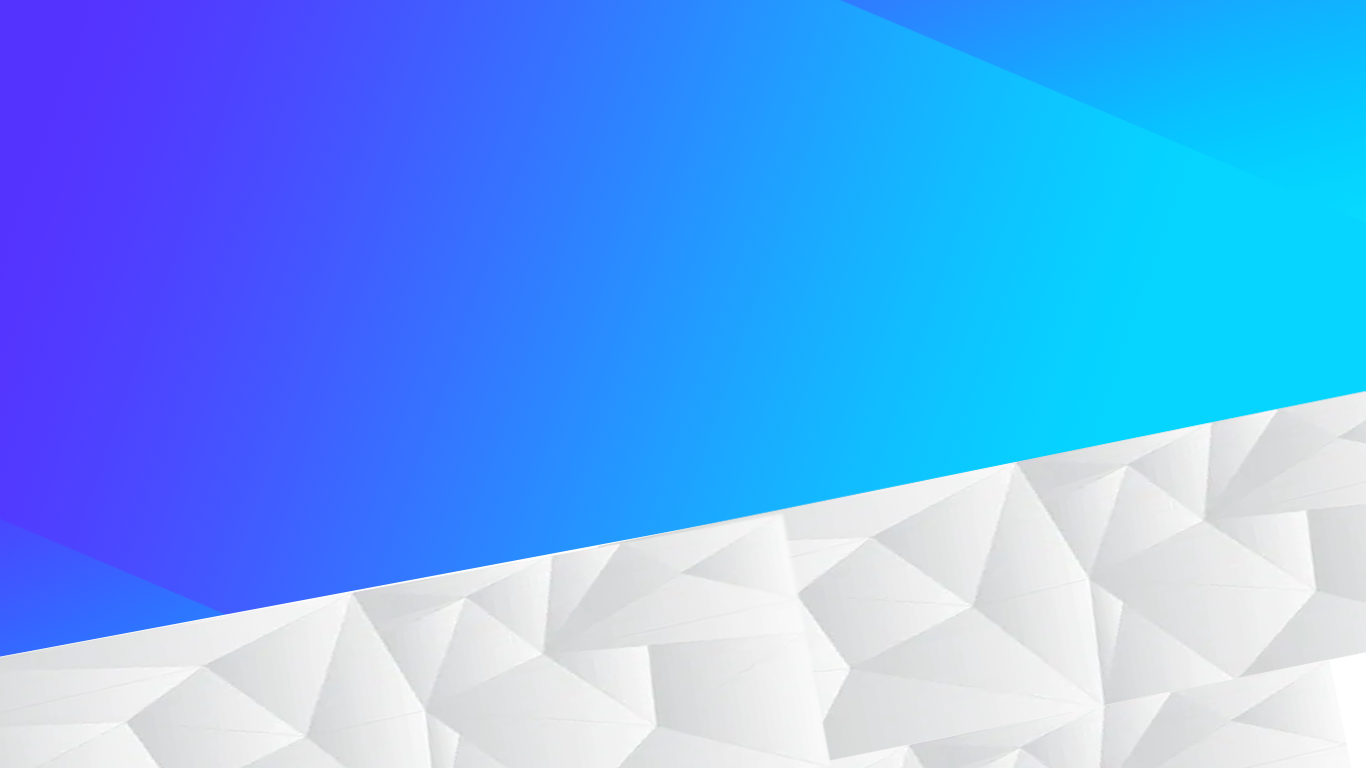
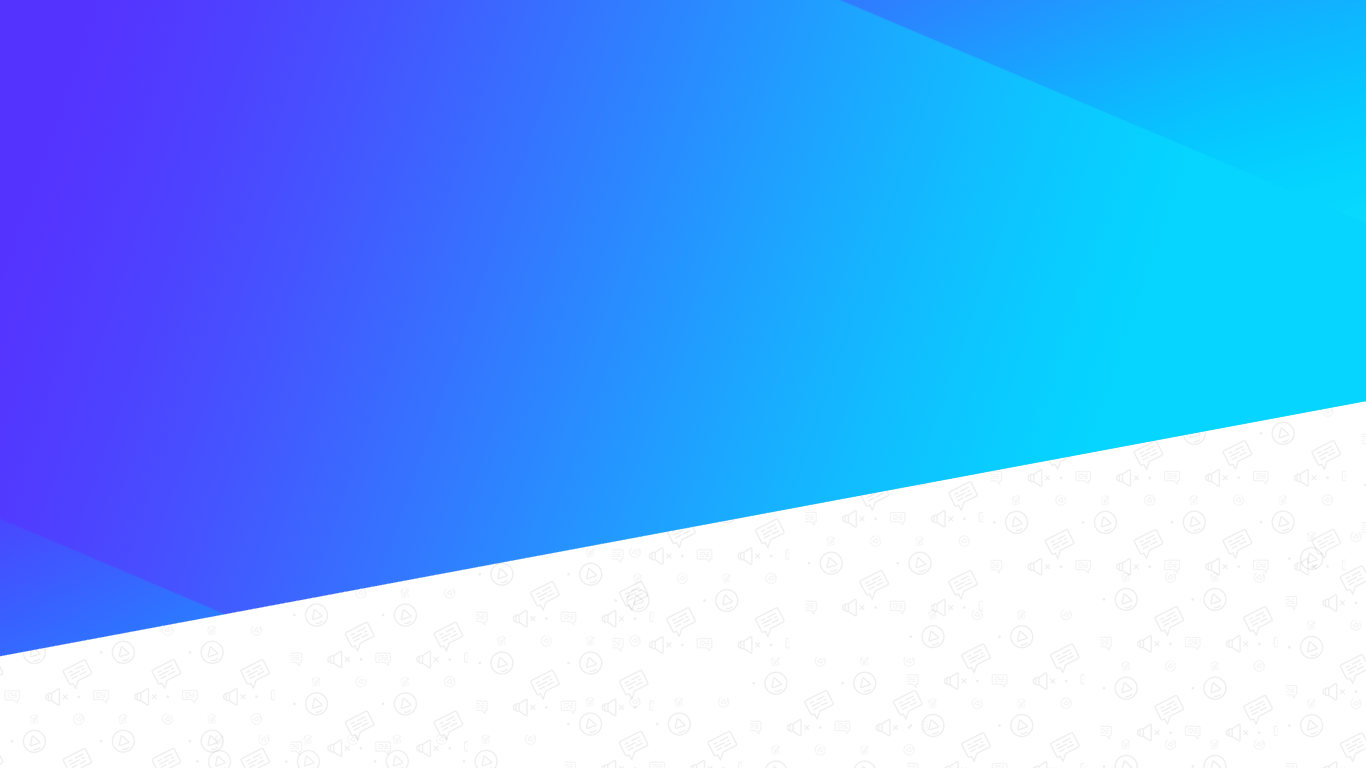
updated header background

Changed region(s): [[0.0922, 0.5, 1.0, 1.0], [0.0, 0.8125, 0.123, 1.0]]

diff --git a/index.html b/index.html
@@ -111,9 +111,10 @@
         </div>
         <img src="img/right-arrow.png" class="arrow" id="arrow-right" />
       </div>
-
+    </div>
       <!-- Showcase Slider END -->
-
+<div class ='featured-bg'>
+    <div class="container">
       <!-- Promo Cards -->
       <div id="promo-container" data-aos="fade-up">
         <h2>Exciting Features!</h2>
@@ -174,9 +175,10 @@
           </div>
         </div>
       </div>
-
+    </div>
+</div>
       <!-- Promo Cards END -->
-
+      <div class="container">
       <!-- How App Works -->
 
       <div id="app-instructions-container">
@@ -310,7 +312,7 @@
           <img src="img/step1bg.png" />
         </div>
         <div class="redeem-card">
-          <img src="img/step1bg.png" />
+          <img src="img/step2bg.png" />
           <div>
             <div class="redeem-header">Step 2</div>
             <p class="redeem-description">

diff --git a/css/style.css b/css/style.css
@@ -50,7 +50,7 @@ darkblue: #25326F
 }
 
 body {
-  background: url("../img/banner-old.png");
+  background: url("../img/banner.png");
   background-size: contain;
   background-repeat: no-repeat;
   overflow-x: hidden;
@@ -65,7 +65,10 @@ a {
 button:focus {
   outline: 0;
 }
-
+.featured-bg {
+  background: url("../img/featured-bg.png") repeat;
+  width: 100%;
+}
 /* Header Style */
 
 #header {
